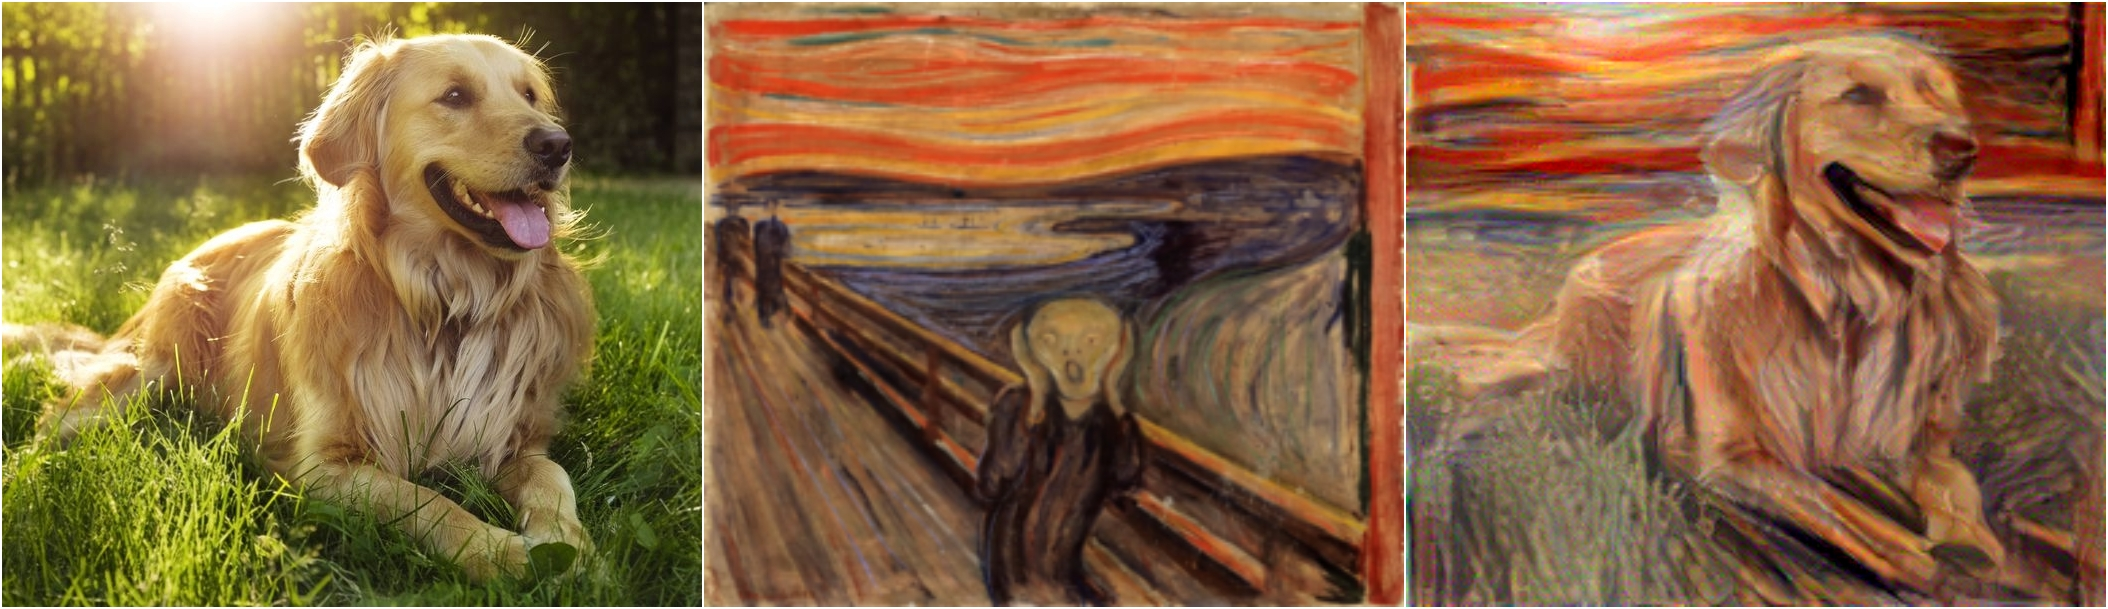
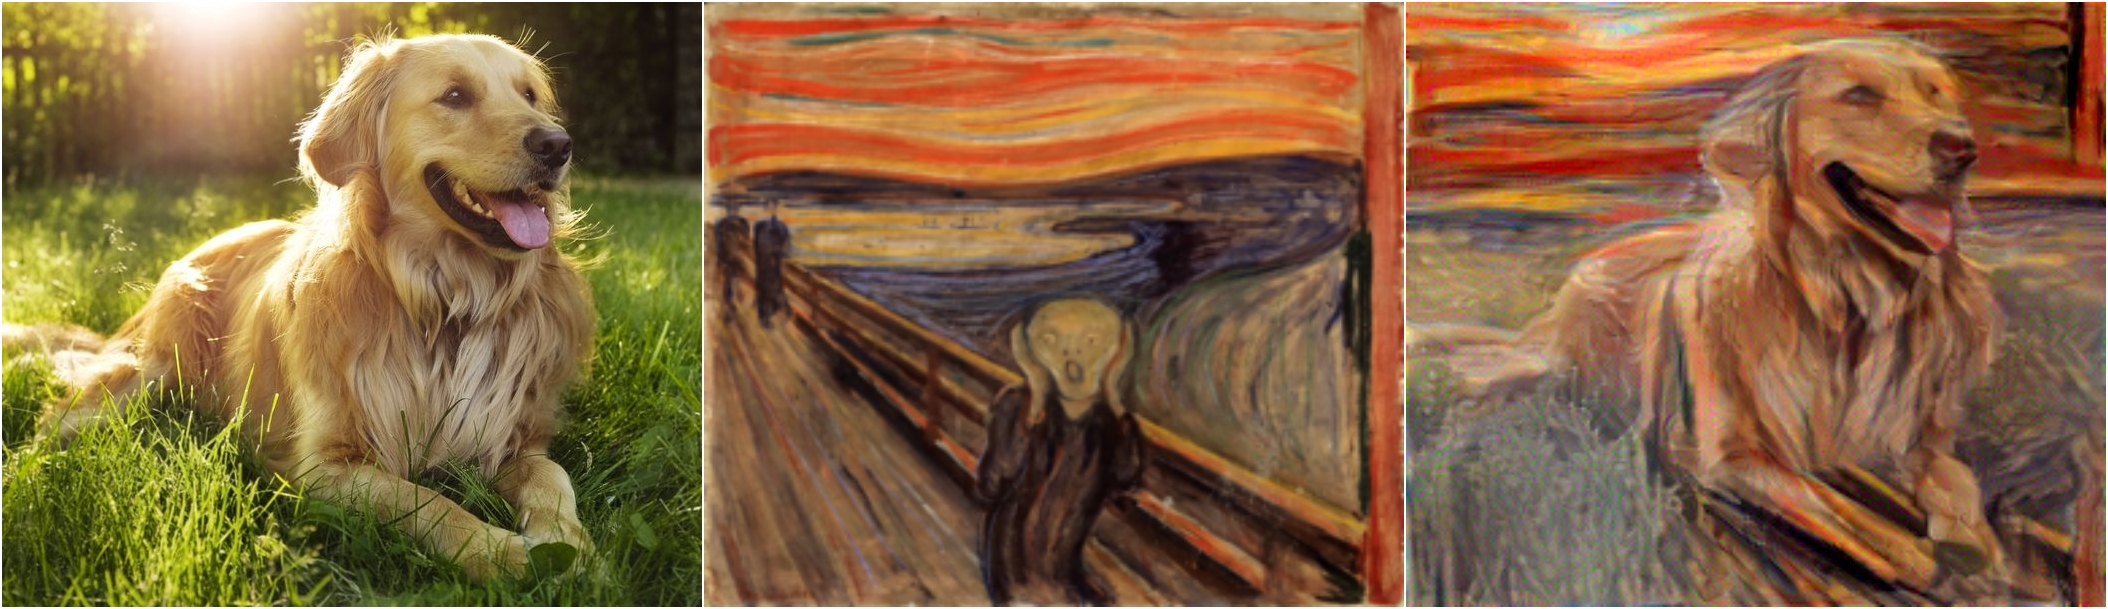
VGG19

Changed region(s): [[0.6475, 0.0, 1.0, 0.9984]]

diff --git a/config.py b/config.py
@@ -4,11 +4,12 @@ CONTENT_LAYER_NUMS = (21,)
 STYLE_LAYERS_NUMS = (0, 5, 10, 19, 28)
 LAYER_NUMS = set(CONTENT_LAYER_NUMS) | set(STYLE_LAYERS_NUMS)
 # $w_{l} = 1 / 5$ in those layers, $w_{l} = 0$ in all other layers."
-# STYLE_WEIGHTS = (0.2, 0.2, 0.2, 0.2, 0.2)
+STYLE_WEIGHTS = (0.2, 0.2, 0.2, 0.2, 0.2)
 # STYLE_WEIGHTS = (1, 0, 0, 0, 0)
-# STYLE_WEIGHTS = (0, 0, 0, 0, 1)
+# STYLE_WEIGHTS = (0, 1, 0, 0, 0)
+# STYLE_WEIGHTS = (0, 0, 1, 0, 0)
 # STYLE_WEIGHTS = (0, 0, 0, 1, 0)
-STYLE_WEIGHTS = (0, 0, 1, 0, 0)
+# STYLE_WEIGHTS = (0, 0, 0, 0, 1)
 assert len(STYLE_LAYERS_NUMS) == len(STYLE_WEIGHTS),\
     "`len(STYLE_LAYERS_NUMS)` should be equal to `len(STYLE_LAYERS_NUMS)`"
 assert sum(STYLE_WEIGHTS) == 1, "`sum(STYLE_LAYERS_NUMS)` should be equal to 1"
@@ -17,7 +18,6 @@ STD = [0.229, 0.224, 0.225]
 IMG_SIZE = 224
 
 ### Adam optimizer
-# LR = 0.08
 LR = 0.12
 BETA1 = 0.99
 BETA2 = 0.999

diff --git a/README.md b/README.md
@@ -4,9 +4,9 @@
 ```bash
 # To generate single image, e.g., run
 python3 main.py\
-    --content_img="path/to/content/image.jpg"\
-    --style_img="path/to/style/image.jpg"\
-    --save_dir="dir/to/save/generated/images"\
+    --content_img="examples/content_images/content_image1.jpg"\
+    --style_img="examples/style_images/style_image1.jpg"\
+    --save_dir="examples/"\
     --n_epochs=400 # Optional
     --alpha=1\ # Optional
     --beta=100000000 # Optional
@@ -21,23 +21,56 @@ bash generate_images.sh --data_dir="path/to/images/dir"
 - <img src="https://github.com/KimRass/PGGAN/assets/105417680/f6f7fc96-cca9-495a-a065-9c10d243400b" width="800">
 - <img src="https://github.com/KimRass/PGGAN/assets/105417680/06c8d9c9-9e20-4cae-b40a-70167aba9b84" width="800">
 - <img src="https://github.com/KimRass/PGGAN/assets/105417680/4bd17692-44ec-4f47-a040-dc671d2147ff" width="800">
-## VGG19:
-    - conv1_1: 0 ~ 1
-    - conv1_2: 2 ~ 4
-    - conv2_1: 5 ~ 6
-    - conv2_2: 7 ~ 9
-    - conv3_1: 10 ~ 11
-    - conv3_2: 12 ~ 13
-    - conv3_3: 14 ~ 15
-    - conv3_4: 16 ~ 18
-    - conv4_1: 19 ~ 20
-    - conv4_2: 21 ~ 22
-    - conv4_3: 23 ~ 24
-    - conv4_4: 25 ~ 27
-    - conv5_1: 28 ~ 29
-    - conv5_2: 30 ~ 31
-    - conv5_3: 32 ~ 33
-    - conv5_4: 34 ~ 36
+## VGG19
+```python
+from torchvision.models import vgg19
+
+print(vgg19())
+```
+```bash
+VGG(
+    (features): Sequential(
+        (0): Conv2d(3, 64, kernel_size=(3, 3), stride=(1, 1), padding=(1, 1)) # conv1_1
+        (1): ReLU(inplace=True) # conv1_1
+        (2): Conv2d(64, 64, kernel_size=(3, 3), stride=(1, 1), padding=(1, 1)) # conv1_2
+        (3): ReLU(inplace=True) # conv1_2
+        (4): MaxPool2d(kernel_size=2, stride=2, padding=0, dilation=1, ceil_mode=False) # conv1_2
+        (5): Conv2d(64, 128, kernel_size=(3, 3), stride=(1, 1), padding=(1, 1)) # conv2_1
+        (6): ReLU(inplace=True) # conv2_1
+        (7): Conv2d(128, 128, kernel_size=(3, 3), stride=(1, 1), padding=(1, 1)) # conv2_2
+        (8): ReLU(inplace=True) # conv2_2
+        (9): MaxPool2d(kernel_size=2, stride=2, padding=0, dilation=1, ceil_mode=False) # conv2_2
+        (10): Conv2d(128, 256, kernel_size=(3, 3), stride=(1, 1), padding=(1, 1)) # conv3_1
+        (11): ReLU(inplace=True) # conv3_1
+        (12): Conv2d(256, 256, kernel_size=(3, 3), stride=(1, 1), padding=(1, 1)) # conv3_2
+        (13): ReLU(inplace=True) # conv3_2
+        (14): Conv2d(256, 256, kernel_size=(3, 3), stride=(1, 1), padding=(1, 1)) # conv3_3
+        (15): ReLU(inplace=True) # conv3_3
+        (16): Conv2d(256, 256, kernel_size=(3, 3), stride=(1, 1), padding=(1, 1)) # conv3_4
+        (17): ReLU(inplace=True) # conv3_4
+        (18): MaxPool2d(kernel_size=2, stride=2, padding=0, dilation=1, ceil_mode=False) # conv3_4
+        (19): Conv2d(256, 512, kernel_size=(3, 3), stride=(1, 1), padding=(1, 1)) # conv4_1
+        (20): ReLU(inplace=True) # conv4_1
+        (21): Conv2d(512, 512, kernel_size=(3, 3), stride=(1, 1), padding=(1, 1)) # conv4_2
+        (22): ReLU(inplace=True) # conv4_2
+        (23): Conv2d(512, 512, kernel_size=(3, 3), stride=(1, 1), padding=(1, 1)) # conv4_3
+        (24): ReLU(inplace=True) # conv4_3
+        (25): Conv2d(512, 512, kernel_size=(3, 3), stride=(1, 1), padding=(1, 1)) # conv4_4
+        (26): ReLU(inplace=True) # conv4_4
+        (27): MaxPool2d(kernel_size=2, stride=2, padding=0, dilation=1, ceil_mode=False) # conv4_4
+        (28): Conv2d(512, 512, kernel_size=(3, 3), stride=(1, 1), padding=(1, 1)) # conv5_1
+        (29): ReLU(inplace=True) # conv5_1
+        (30): Conv2d(512, 512, kernel_size=(3, 3), stride=(1, 1), padding=(1, 1)) # conv5_2
+        (31): ReLU(inplace=True) # conv5_2
+        (32): Conv2d(512, 512, kernel_size=(3, 3), stride=(1, 1), padding=(1, 1)) # conv5_3
+        (33): ReLU(inplace=True) # conv5_3
+        (34): Conv2d(512, 512, kernel_size=(3, 3), stride=(1, 1), padding=(1, 1)) # conv5_4
+        (35): ReLU(inplace=True) # conv5_4
+        (36): MaxPool2d(kernel_size=2, stride=2, padding=0, dilation=1, ceil_mode=False) # conv5_4
+    )
+    ...
+)
+```
 ## Implementation Details
 ### Model
 - `from torchvision.models.vgg19_bn`을 사용하면 아래 이미지처럼 style transferring이 제대로 일어나지 않습니다. `from torchvision.models.vgg19`을 사용하면 제대로 된 이미지가 생성되는 것을 확인할 수 있습니다.
